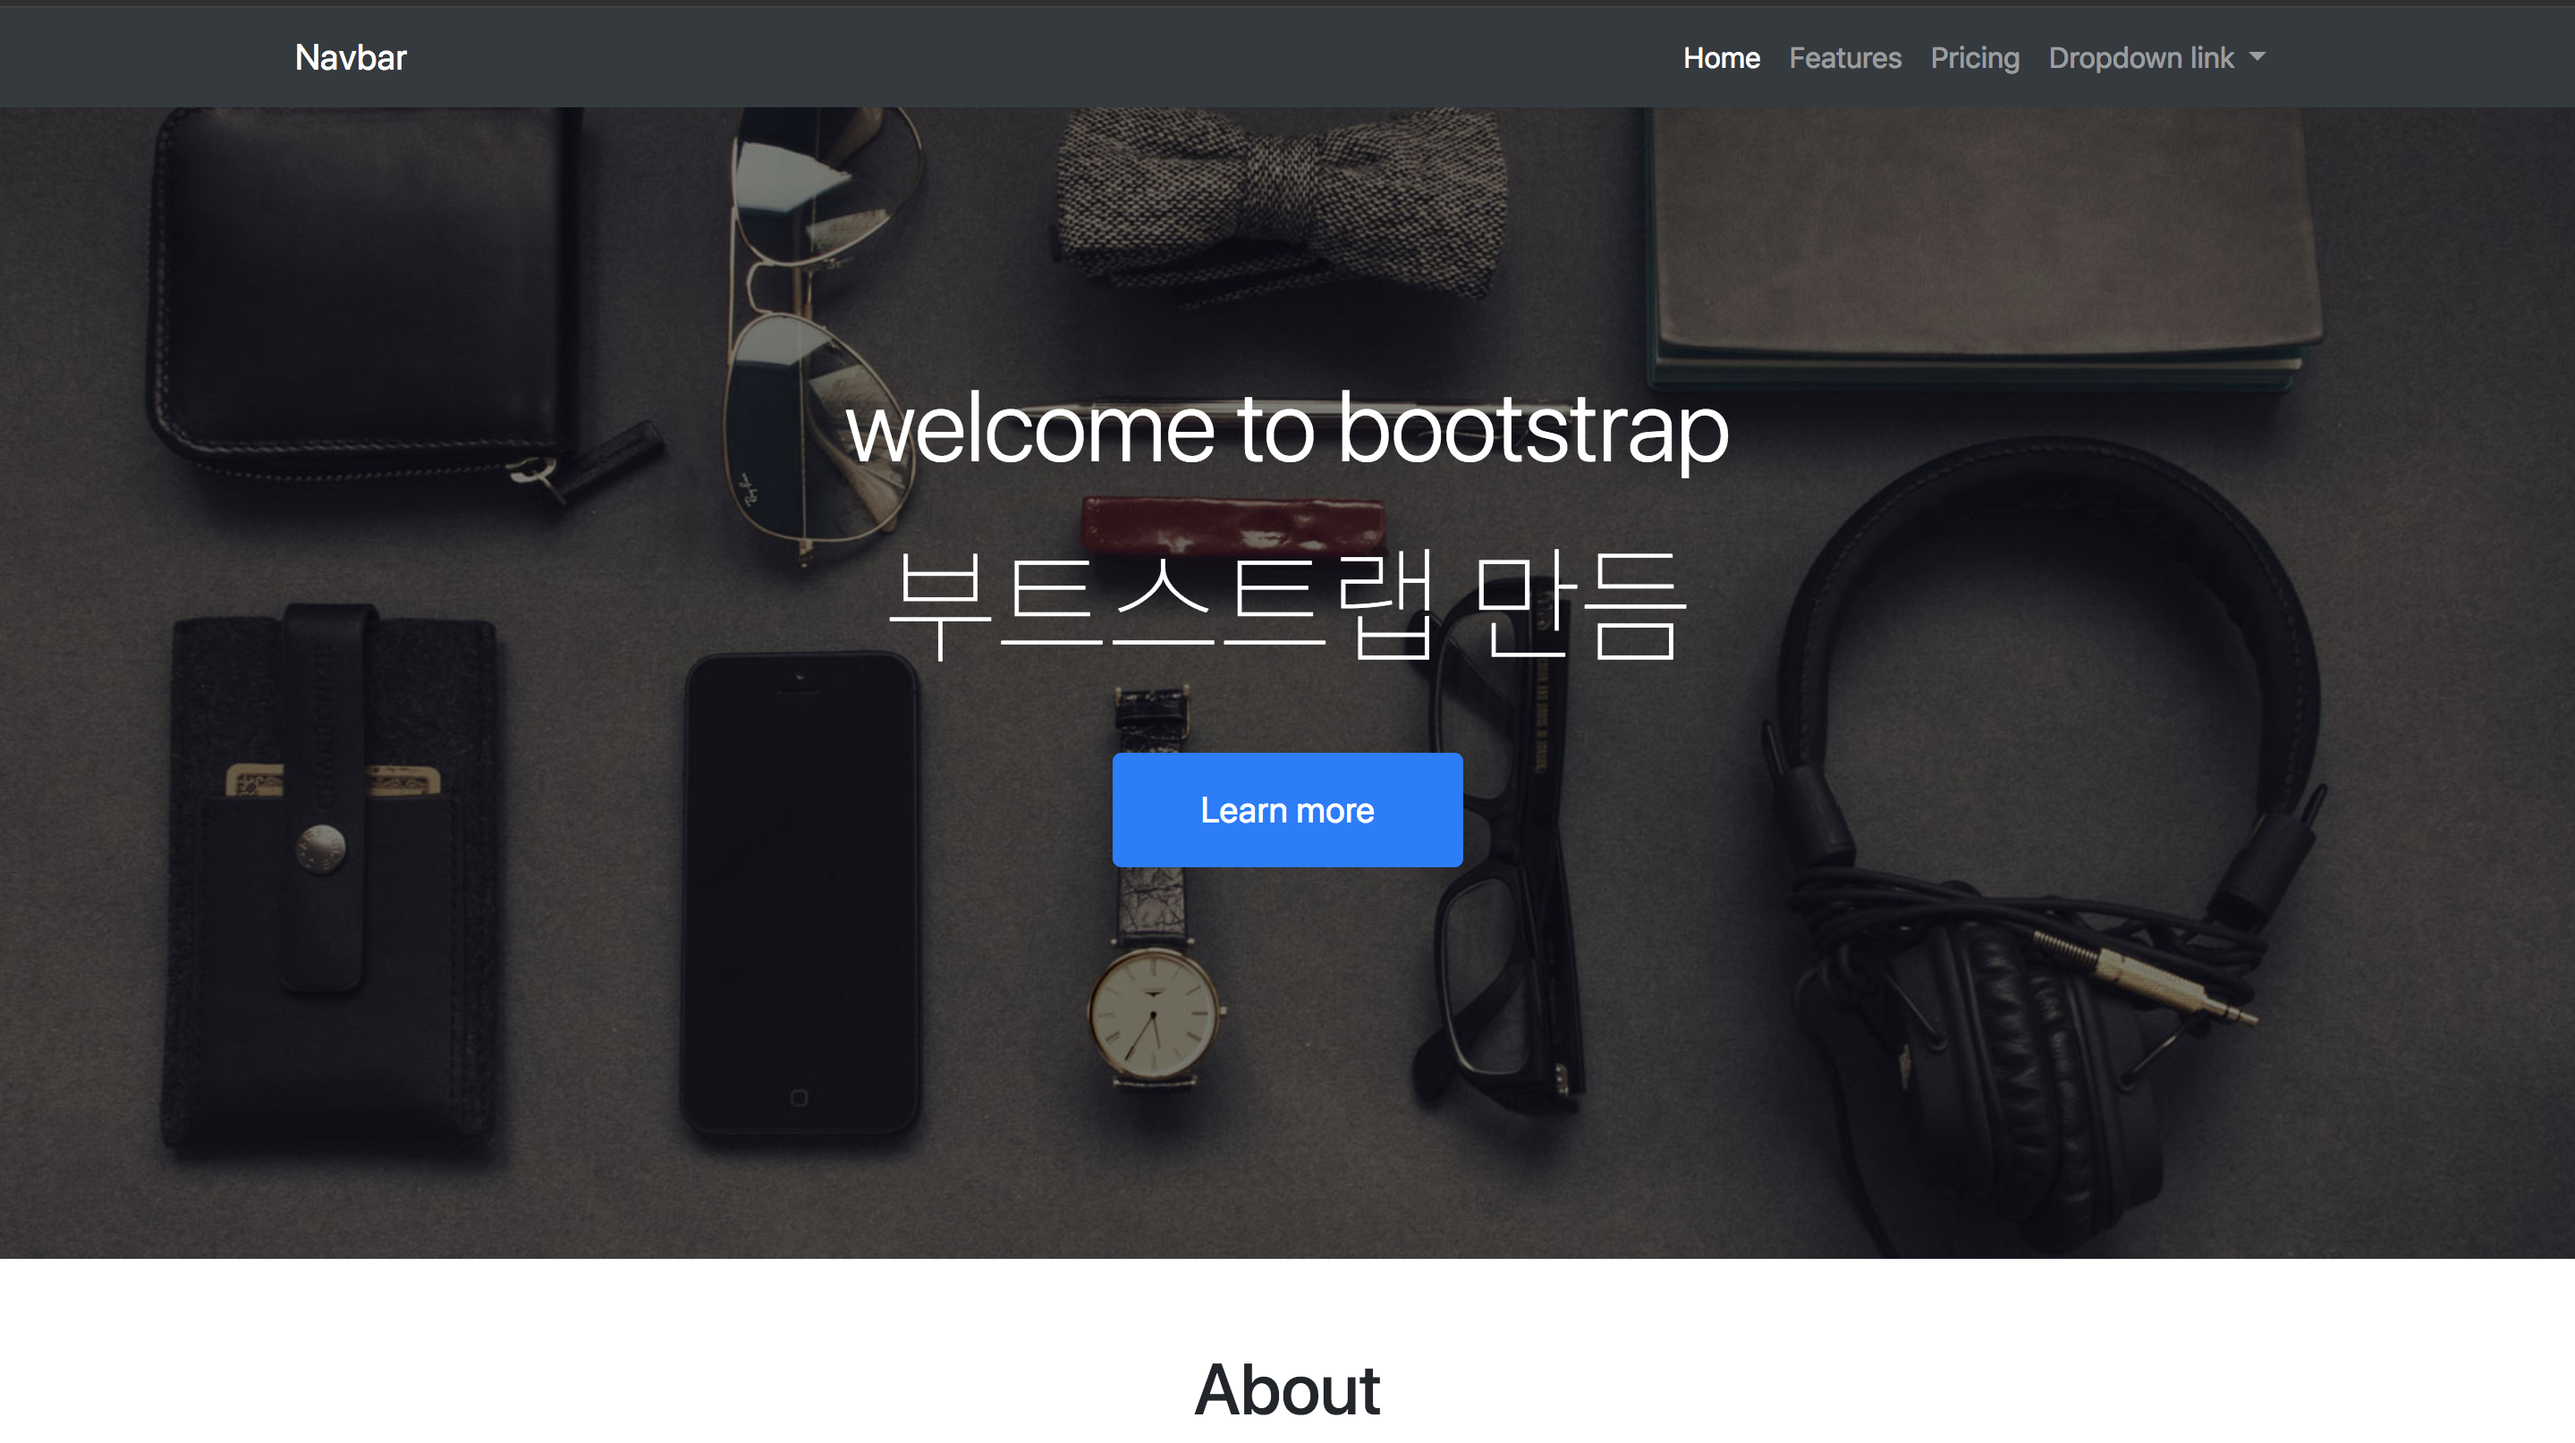
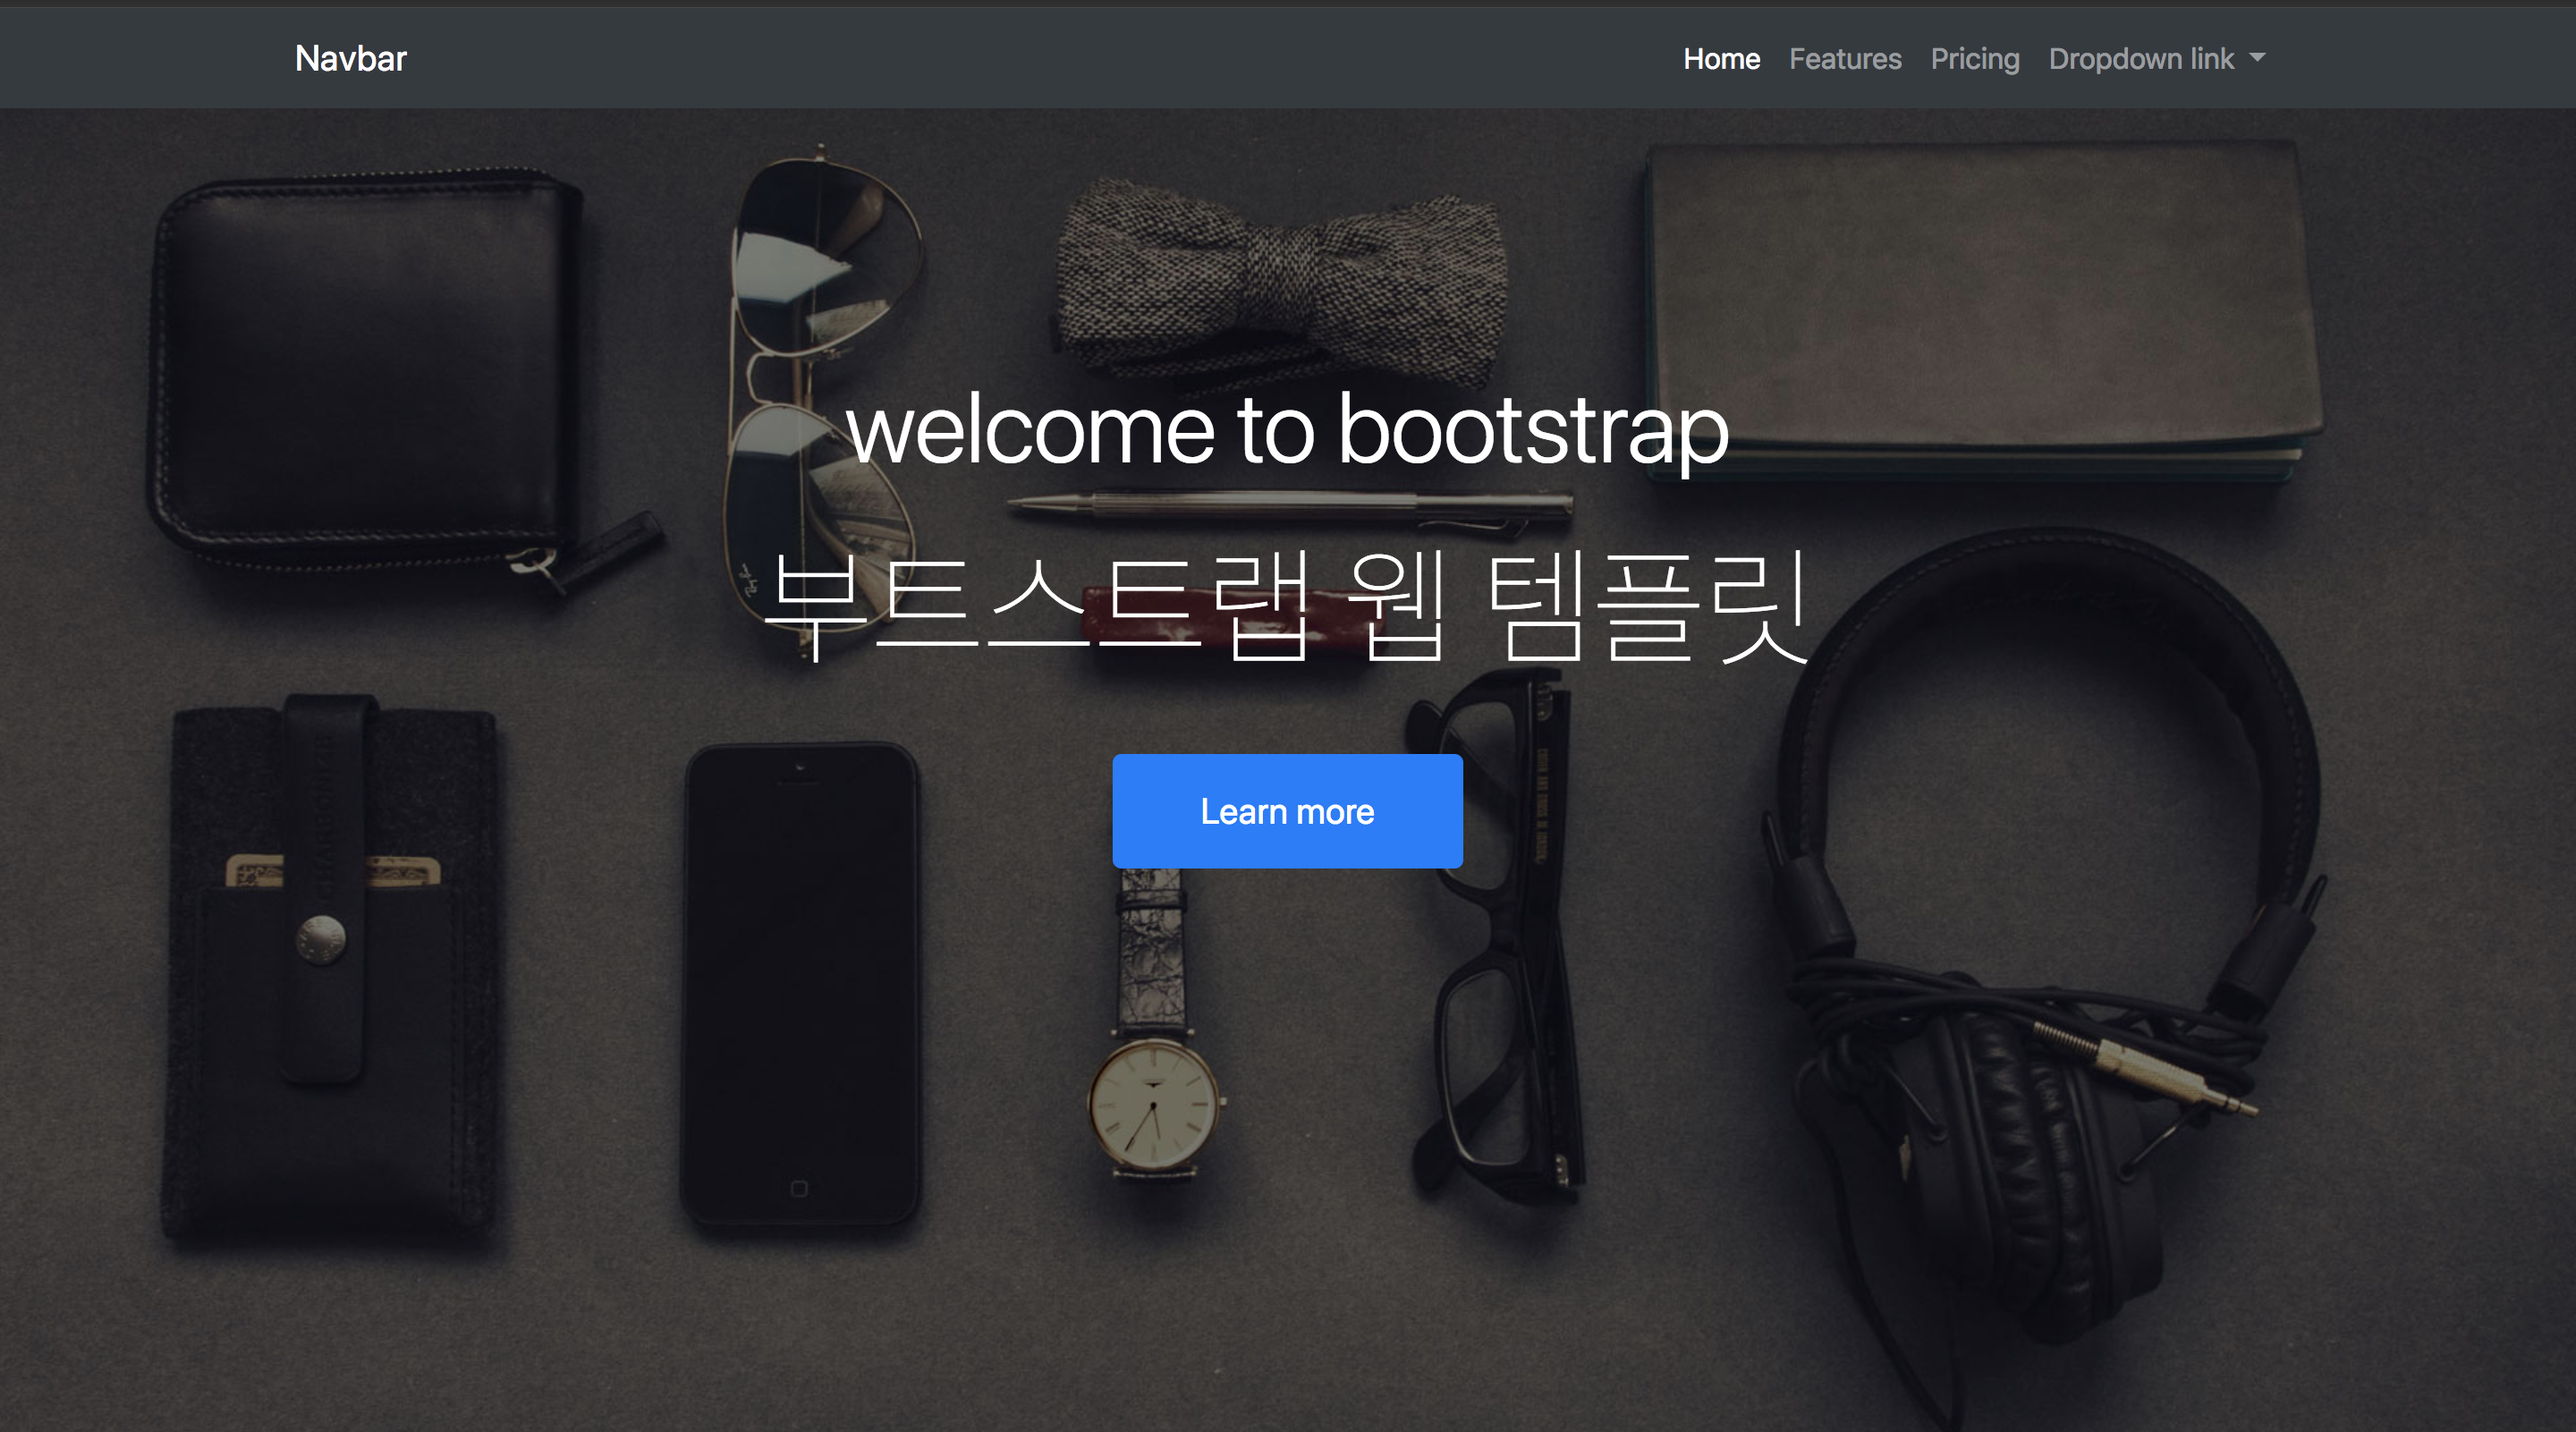
이미지 경로 변경

diff --git a/index.html b/index.html
@@ -52,7 +52,7 @@
   <div class="jumbotron jumbotron-fluid mb-0 header">
     <div class="container text-center py-5">
       <h1 class="display-4 py-2">welcome to bootstrap</h1>
-      <p class="display-3 py-2">부트스트랩 만듬</p>
+      <p class="display-3 py-2">부트스트랩 웹 템플릿</p>
       <a class="btn btn-primary btn-lg my-3 px-5 py-3" href="#" role="button">Learn more</a>
     </div>
   </div>

diff --git a/style.css b/style.css
@@ -17,7 +17,7 @@ nav .dropdown-item{ color: #fff; }
   background: url('./img/background.jpg');
   background-size: cover;
   background-position: center;
-  height: 700px;
+  height: 800px;
 }
 
 .header .container {
